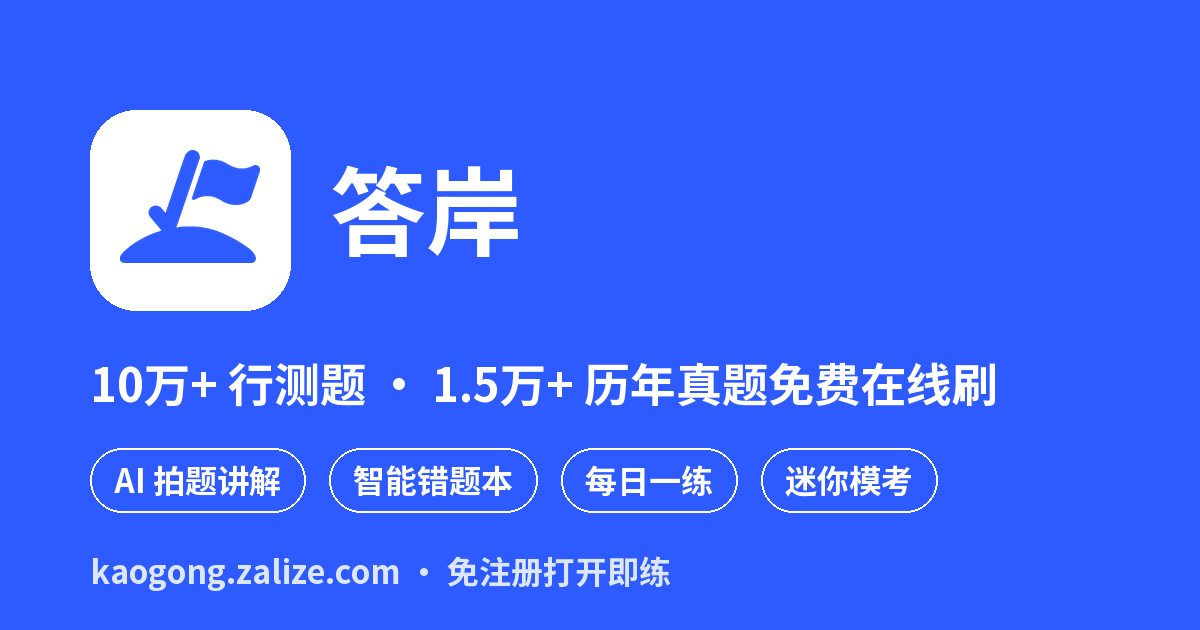
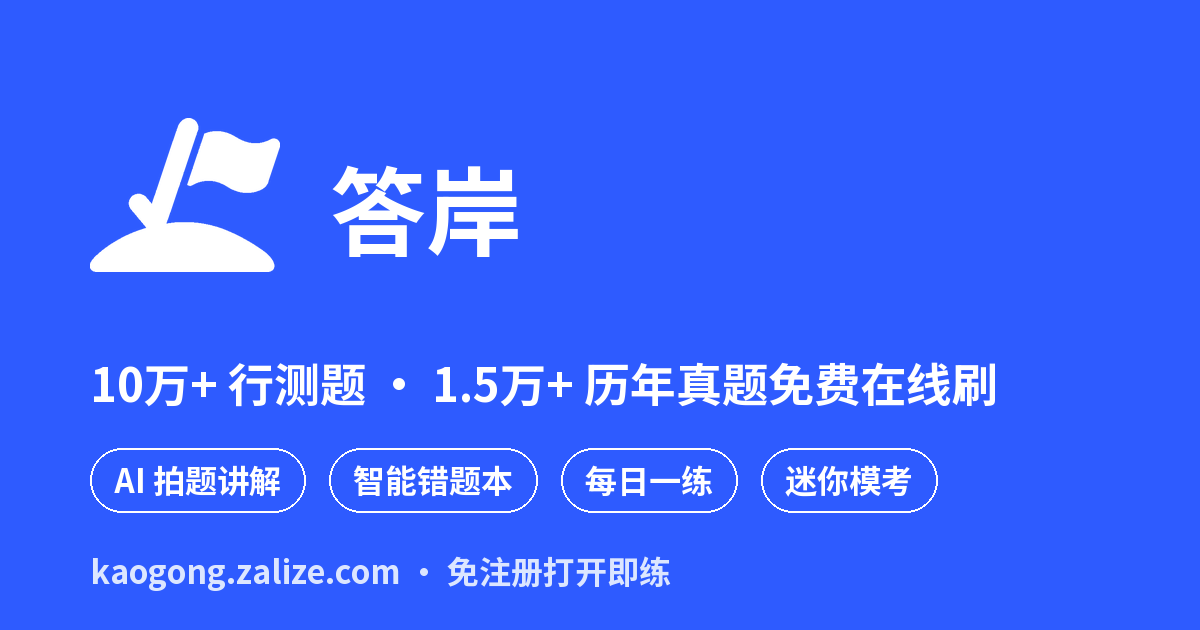
brand: 标志去衬底——全部改透明裸标 (#780)
- icon/favicon/logo.png/glyph 全部重导为透明底对勾旗标（原蓝砖底按用户要求去除）
- logo.svg/daan.svg/lp-assets/logo.svg 改透明蓝标嵌 PNG 壳
- 落地页 nav 去蓝砖直接挂蓝标；og-card 白标直贴蓝底

Changed region(s): [[0.0617, 0.1508, 0.2467, 0.5127]]

diff --git a/landing/index.html b/landing/index.html
@@ -28,8 +28,8 @@ section{padding:76px 0}
 /* ---- nav ---- */
 nav{position:sticky;top:0;z-index:50;background:var(--bg);border-bottom:var(--hairline)}
 .nav-in{display:flex;align-items:center;gap:10px;height:56px}
-.logo{width:30px;height:30px;border-radius:9px;background:var(--brand);display:grid;place-items:center;color:#fff;font-weight:800;font-size:15px}
-.logo svg,.logo img{width:21px;height:21px;display:block;object-fit:contain}
+.logo{width:30px;height:30px;display:grid;place-items:center}
+.logo svg,.logo img{width:28px;height:28px;display:block;object-fit:contain}
 .brand-name{font-weight:700;font-size:17px;letter-spacing:.5px}
 .nav-links{margin-left:auto;display:flex;gap:26px;font-size:13.5px;color:var(--ink-3)}
 .nav-links a:hover{color:var(--brand)}
@@ -159,7 +159,7 @@ footer{border-top:1px solid var(--line);padding:34px 0;color:var(--ink-3);font-s
 
 <nav>
   <div class="wrap nav-in">
-    <div class="logo"><img src="lp-assets/mark-white.png" alt="" aria-hidden="true"></div>
+    <div class="logo"><img src="lp-assets/logo-mark.png" alt="" aria-hidden="true"></div>
     <div class="brand-name">答岸</div>
     <div class="nav-links">
       <a href="#features">功能</a>

diff --git a/scripts/gen_og_card.py b/scripts/gen_og_card.py
@@ -26,11 +26,12 @@ def _seg(d: ImageDraw.ImageDraw, x0: float, y0: float, x1: float, y1: float, w: 
 
 
 MARK_PNG = Path(__file__).resolve().parent.parent / "brand" / "mark-blue.png"
+MARK_PNG_WHITE = MARK_PNG.with_name("mark-white.png")
 
 
-def draw_mark(im: Image.Image, x: float, y: float, size: float) -> None:
-    """答岸「对勾旗上岸」标，直接贴 brand/mark-blue.png。"""
-    mark = Image.open(MARK_PNG)
+def draw_mark(im: Image.Image, x: float, y: float, size: float, white: bool = False) -> None:
+    """答岸「对勾旗上岸」标，直接贴 brand/mark-*.png。"""
+    mark = Image.open(MARK_PNG_WHITE if white else MARK_PNG)
     scale = size / mark.width
     mark = mark.resize((round(mark.width * scale), round(mark.height * scale)), Image.LANCZOS)
     im.paste(mark, (round(x), round(y)), mark)
@@ -40,11 +41,8 @@ def main() -> None:
     im = Image.new("RGB", (W, H), BRAND)
     d = ImageDraw.Draw(im)
 
-    # 白块标：圆角白砖 + 品牌蓝「对勾旗上岸」标
-    tx, ty, ts = 90, 110, 200
-    d.rounded_rectangle((tx, ty, tx + ts, ty + ts), radius=46, fill=WHITE)
-    pad = 30
-    draw_mark(im, tx + pad, ty + pad + 10, ts - pad * 2)
+    # 白标直贴蓝底（无衬底）
+    draw_mark(im, 90, 118, 190, white=True)
 
     f_site = ImageFont.truetype(str(FONT), 96)
     f_sub = ImageFont.truetype(str(FONT), 46)
